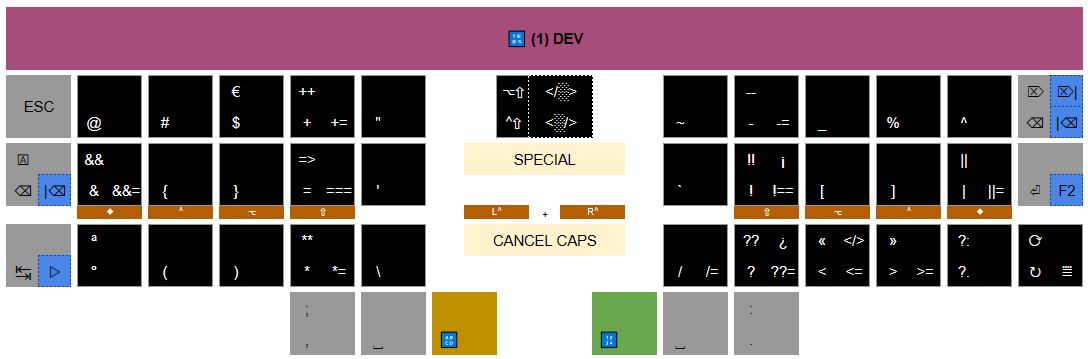
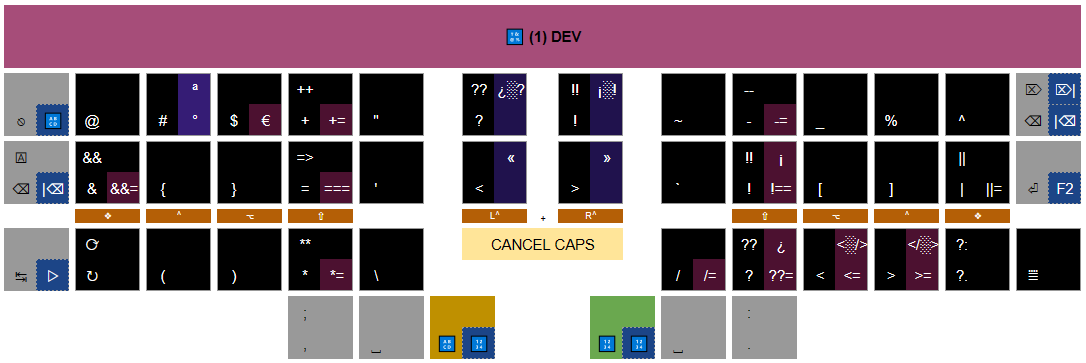
update readme and images

diff --git a/README.md b/README.md
@@ -58,8 +58,8 @@ Icons used to describe some modifiers and actions
 | Label           | Combinations                            | Actions                                               |
 | --------------: | --------------------------------------: | ----------------------------------------------------- |
 | <kbd>⌫</kbd>   |                                         | Backspace                                             |
-| <kbd>⌦</kbd>   | <kbd>⇧</kbd>+<kbd>⌫</kbd>              | Delete                                                |
 | <kbd>\|⌫</kbd> | <kbd>⇪⌫</kbd>                          | Delete word backward                                  |
+| <kbd>⌦</kbd>   | <kbd>⇧</kbd>+<kbd>⌫</kbd>              | Delete                                                |
 | <kbd>⌦\|</kbd> | <kbd>⇧</kbd>+<kbd>⇪⌫</kbd>             | Delete word forward                                   |
 | <kbd>F2</kbd>   | <kbd>⇪⏎</kbd>                           | Rename (like macOS)                                   |
 | <kbd>▷</kbd>   | <kbd>⇪↹</kbd>                            | left (terminal autocompletion)                        |
@@ -80,46 +80,25 @@ Letters, accents for Spanish language and quick shortcuts for most used symbols 
 | Label        | Combinations                                        |
 | :----------: | --------------------------------------------------: |
 | <kbd>á</kbd> | <kbd>⌥</kbd>+<kbd>a</kbd>                           |
-| <kbd>Á</kbd> | <kbd>⇧</kbd>+<kbd>⌥</kbd>+<kbd>a</kbd>              |
+| <kbd>Á</kbd> | <kbd>❖</kbd>+<kbd>⌥</kbd>+<kbd>a</kbd>              |
 | <kbd>é</kbd> | <kbd>⌥</kbd>+<kbd>e</kbd>                           |
-| <kbd>É</kbd> | <kbd>⇧</kbd>+<kbd>⌥</kbd>+<kbd>e</kbd>              |
+| <kbd>É</kbd> | <kbd>❖</kbd>+<kbd>⌥</kbd>+<kbd>e</kbd>              |
 | <kbd>í</kbd> | <kbd>⌥</kbd>+<kbd>i</kbd>                           |
-| <kbd>Í</kbd> | <kbd>⇧</kbd>+<kbd>⌥</kbd>+<kbd>i</kbd>              |
+| <kbd>Í</kbd> | <kbd>❖</kbd>+<kbd>⌥</kbd>+<kbd>i</kbd>              |
 | <kbd>ó</kbd> | <kbd>⌥</kbd>+<kbd>o</kbd>                           |
-| <kbd>Ó</kbd> | <kbd>⇧</kbd>+<kbd>⌥</kbd>+<kbd>o</kbd>              |
+| <kbd>Ó</kbd> | <kbd>❖</kbd>+<kbd>⌥</kbd>+<kbd>o</kbd>              |
 | <kbd>ú</kbd> | <kbd>⌥</kbd>+<kbd>u</kbd>                           |
-| <kbd>Ú</kbd> | <kbd>⇧</kbd>+<kbd>⌥</kbd>+<kbd>u</kbd>              |
-| <kbd>ü</kbd> | <kbd>⌥</kbd>+<kbd>⇪u</kbd>                          |
-| <kbd>Ü</kbd> | <kbd>⇧</kbd>+<kbd>⌥</kbd>+<kbd>⇪u</kbd>             |
+| <kbd>Ú</kbd> | <kbd>❖</kbd>+<kbd>⌥</kbd>+<kbd>u</kbd>              |
+| <kbd>ü</kbd> | <kbd>^</kbd>+<kbd>u</kbd>                          |
+| <kbd>Ü</kbd> | <kbd>❖</kbd>+<kbd>^</kbd>+<kbd>u</kbd>             |
 | <kbd>ñ</kbd> | <kbd>⌥</kbd>+<kbd>n</kbd>                           |
-| <kbd>Ñ</kbd> | <kbd>⇧</kbd>+<kbd>⌥</kbd>+<kbd>n</kbd>              |
+| <kbd>Ñ</kbd> | <kbd>❖</kbd>+<kbd>⌥</kbd>+<kbd>n</kbd>              |
 
 ##### Symbols
 
 | Label         | Combinations                                        |
 | :-----------: | --------------------------------------------------: |
 | <kbd>@</kbd>  | <kbd>⌥</kbd>+<kbd>q</kbd>                          |
-| <kbd>;</kbd>  | <kbd>⇧</kbd>+<kbd>,</kbd>                           |
-| <kbd>:</kbd>  | <kbd>⇧</kbd>+<kbd>.</kbd>                           |
-| <kbd>+</kbd>  | <kbd>⇧</kbd>+<kbd>-</kbd>                           |
-| <kbd>=</kbd>  | <kbd>⌥</kbd>+<kbd>-</kbd>                          |
-| <kbd>*</kbd>  | <kbd>⇧</kbd>+<kbd>⌥</kbd>+<kbd>-</kbd>             |
-| <kbd>&</kbd>  | <kbd>⇧</kbd>+<kbd>/</kbd>                           |
-| <kbd>?</kbd>  | <kbd>⌥</kbd>+<kbd>/</kbd>                          |
-| <kbd>\|</kbd> | <kbd>⇧</kbd>+<kbd>⌥</kbd>+<kbd>/</kbd>             |
-| <kbd>"</kbd>  | <kbd>⇧</kbd>+<kbd>'</kbd>                           |
-| <kbd>`</kbd>  | <kbd>⌥</kbd>+<kbd>'</kbd>                          |
-| <kbd>~</kbd>  | <kbd>⇧</kbd>+<kbd>⌥</kbd>+<kbd>'</kbd>             |
-
-##### Auto Brackets
-
-| Label | Combinations                                        | Action                       |
-| :---: | --------------------------------------------------: | ---------------------------- |
-| {░}   | <kbd>{}</kbd>                                       | Curly brackets               |
-| (░)   | <kbd>⇧</kbd>+<kbd>{}</kbd>                          | Round brackets (parenthesis) |
-| [░]   | <kbd>⌥</kbd>+<kbd>{}</kbd>                          | Square brackets              |
-| </░>  | <kbd>⇧</kbd>+<kbd>⌥</kbd>+<kbd>{}</kbd>             | Angular brackets for HTML  |
-| <░/>  | <kbd>⇧</kbd>+<kbd>^</kbd>+<kbd>{}</kbd>             | Angular brackets for React  |
 
 #### 1. Dev
 
@@ -129,17 +108,19 @@ Symbols and dev shortcuts for JS/TS.
 
 ##### Symbols
 
-| Label | Combinations                                      |
-| :-: | --------------------------------------------------: |
-| <kbd>€</kbd>  | <kbd>⌥</kbd>+<kbd>$</kbd>                 |
-| <kbd>°</kbd>  | <kbd>⌥</kbd>+<kbd>#</kbd>                 |
-| <kbd>ª</kbd>  | <kbd>⇧</kbd>+<kbd>⌥</kbd>+<kbd>#</kbd>    |
-| <kbd>«</kbd>  | <kbd>⇧</kbd>+<kbd><</kbd>                 |
-| <kbd>»</kbd>  | <kbd>⇧</kbd>+<kbd>></kbd>                 |
-| <kbd><=</kbd> | <kbd>⌥</kbd>+<kbd><</kbd>                |
-| <kbd>>=</kbd> | <kbd>⌥</kbd>+<kbd>></kbd>                |
-| <kbd>¡</kbd>  | <kbd>⇧</kbd>+<kbd>⌥</kbd>+<kbd>!</kbd>   |
-| <kbd>¿</kbd>  | <kbd>⇧</kbd>+<kbd>⌥</kbd>+<kbd>?</kbd>   |
+| Label           | Combinations                              |
+| :-------------: | ----------------------------------------: |
+| <kbd>°</kbd>    | <kbd>^</kbd>+<kbd>#</kbd>                 |
+| <kbd>ª</kbd>    | <kbd>❖</kbd>+<kbd>^</kbd>+<kbd>#</kbd>   |
+| <kbd>€</kbd>    | <kbd>⌥</kbd>+<kbd>$</kbd>                |
+| <kbd>«</kbd>    | <kbd>❖</kbd>+<kbd>^</kbd>+<kbd><</kbd>   |
+| <kbd>»</kbd>    | <kbd>❖</kbd>+<kbd>^</kbd>+<kbd>></kbd>   |
+| <kbd><=</kbd>   | <kbd>⌥</kbd>+<kbd><</kbd>                |
+| <kbd>>=</kbd>   | <kbd>⌥</kbd>+<kbd>></kbd>                |
+| <kbd>¡</kbd>    | <kbd>❖</kbd>+<kbd>⌥</kbd>+<kbd>!</kbd>   |
+| <kbd>¡░!</kbd>  | <kbd>❖</kbd>+<kbd>^</kbd>+<kbd>!</kbd>   |
+| <kbd>¿</kbd>    | <kbd>❖</kbd>+<kbd>⌥</kbd>+<kbd>?</kbd>   |
+| <kbd>¿░?</kbd>  | <kbd>❖</kbd>+<kbd>^</kbd>+<kbd>?</kbd>   |
 
 ##### JS/TS
 
@@ -167,16 +148,16 @@ Symbols and dev shortcuts for JS/TS.
 
 | Label | Combinations                                        | Action                       |
 | :---: | --------------------------------------------------: | ---------------------------- |
-| </░>  | <kbd>⇧</kbd>+<kbd>⌥</kbd>+<kbd>{}</kbd>             | Angular brackets for HTML  |
-| <░/>  | <kbd>⇧</kbd>+<kbd>^</kbd>+<kbd>{}</kbd>             | Angular brackets for React  |
+| <░/>  | <kbd>❖</kbd>+<kbd>⌥</kbd>+<kbd><</kbd>             | Angular brackets for React  |
+| </░>  | <kbd>❖</kbd>+<kbd>⌥</kbd>+<kbd>></kbd>              | Angular brackets for HTML  |
 
 ##### Browser DevTools
 
-| Label          | Combinations                                        | Action                      |
-| -----------: | --------------------------------------------------: | --------------------------- |
-| <kbd>↻</kbd> | <kbd>↻</kbd>                                        | Refresh                     |
-| <kbd>⟳</kbd> | <kbd>⇧</kbd>+<kbd>↻</kbd>                           | Hard refresh (clean cache) |
-| <kbd>⩸</kbd> | <kbd>⌥</kbd>+<kbd>↻</kbd>                           | Open DevTools              |
+| Label        | Combinations                 | Action                      |
+| -----------: | ---------------------------: | --------------------------- |
+| <kbd>↻</kbd> | <kbd>↻</kbd>                 | Refresh                     |
+| <kbd>⟳</kbd> | <kbd>⇧</kbd>+<kbd>↻</kbd>   | Hard refresh (clean cache) |
+| <kbd>⩸</kbd> |                             | Open DevTools              |
 
 #### 2. Actions/Numbers
 
@@ -187,19 +168,21 @@ Quick navigation actions and numbers.
 ##### Navigation
 
 | Label          | Combination                | Action               |
-| ------------: | -------------------------- | -------------------- |
-| <kbd>△</kbd>  |                            | Up                   |
-| <kbd>▽</kbd>  |                            | Down                 |
-| <kbd>◁</kbd>  |                            | Left                 |
-| <kbd>▷</kbd>  |                            | Right                |
-| <kbd>⤒</kbd>  | <kbd>⌥</kbd>+<kbd>△</kbd> | Beginning of document |
-| <kbd>⤓</kbd>  | <kbd>⌥</kbd>+<kbd>▽</kbd> | End of document       |
-| <kbd>⇤</kbd>  | <kbd>⌥</kbd>+<kbd>◁</kbd> | Beginning of line     |
-| <kbd>⇥</kbd>  | <kbd>⌥</kbd>+<kbd>▷</kbd> | End of line           |
-| <kbd>⇺</kbd>  |                            | Prev Tab              |
-| <kbd>⇻</kbd>  |                            | Next Tab              |
-| <kbd>⎗</kbd>  | <kbd>⇧</kbd>+<kbd>⇺</kbd> | Prev desktop          |
-| <kbd>⎘</kbd>  | <kbd>⇧</kbd>+<kbd>⇻</kbd> | Next desktop          |
+| ------------: | --------------------------------------- | -------------------- |
+| <kbd>△</kbd>  |                                        | Up                   |
+| <kbd>▽</kbd>  |                                        | Down                 |
+| <kbd>◁</kbd>  |                                        | Left                 |
+| <kbd>▷</kbd>  |                                        | Right                |
+| <kbd>⤒</kbd>  | <kbd>❖</kbd>+<kbd>⇧</kbd>+<kbd>△</kbd> | Beginning of document |
+| <kbd>⤓</kbd>  | <kbd>❖</kbd>+<kbd>⇧</kbd>+<kbd>▽</kbd> | End of document       |
+| <kbd>⇤</kbd>  | <kbd>❖</kbd>+<kbd>⇧</kbd>+<kbd>◁</kbd> | Beginning of line     |
+| <kbd>⇥</kbd>  | <kbd>❖</kbd>+<kbd>⇧</kbd>+<kbd>▷</kbd> | End of line           |
+| <kbd>⇞</kbd>  | <kbd>❖</kbd>+<kbd>^</kbd>+<kbd>△</kbd> | Page up               |
+| <kbd>⇟</kbd>  | <kbd>❖</kbd>+<kbd>^</kbd>+<kbd>▽</kbd> | Page down             |
+| <kbd>⇺</kbd>  |                                         | Prev Tab              |
+| <kbd>⇻</kbd>  |                                         | Next Tab              |
+| <kbd>⎗</kbd>  | <kbd>⇧</kbd>+<kbd>⇺</kbd>              | Prev desktop          |
+| <kbd>⎘</kbd>  | <kbd>⇧</kbd>+<kbd>⇻</kbd>              | Next desktop          |
 
 ##### Actions
 
@@ -226,15 +209,18 @@ Dedicated to Bluetooth and media controls.
 
 | Label           | Action                   |
 | --------------: |  ----------------------- |
-| <kbd>BT⏮</kbd> | Prev device              |
-| <kbd>BT⏭</kbd> | Next device              |
-| <kbd>BT#⃣</kbd> | Jump to #⃣ device        |
-| <kbd>BT❌</kbd> | Clear current device     |
+| <kbd>B⏮</kbd> | Prev device              |
+| <kbd>B⏭</kbd> | Next device              |
+| <kbd>B#⃣</kbd> | Jump to #⃣ device        |
+| <kbd>B❌</kbd> | Clear current device      |
 | <kbd>🔎+</kbd>  | Zoom in                  |
 | <kbd>🔎R</kbd>  | Zoom reset               |
 | <kbd>🔎-</kbd>  | Zoom out                 |
-| <kbd>🔅</kbd>   | Bright down              |
-| <kbd>🔆</kbd>   | Bright up                |
+| <kbd>🔊+</kbd>  | Volume up                |
+| <kbd>🔈M</kbd>   | Mute                     |
+| <kbd>🔉-</kbd>   | Volume down              |
+| <kbd>🔅</kbd>    | Bright down              |
+| <kbd>🔆</kbd>    | Bright up                |
 
 ##### Media
 
@@ -318,9 +304,23 @@ Once you make changes to your keymap, you can download the firmware from the git
 
 ## AHK
 
-Create shortcuts to all scripts with `.ahk` extension inside `combos` folder.
+### Prerequisites
+
+- Download and install [AutoHotKey](https://www.autohotkey.com/)
+
+### Scripts
+
+Create shortcuts to all scripts with `.ahk` extension located inside `combos` folder.
 
 Press <kbd>❖</kbd>+<kbd>r</kbd> and run this command `shell:startup`. Move shortcuts to this folder to run the scripts at startup.
+
+### Notifications
+
+Near to current mouse positions will show notifications about:
+
+- CapsLock (On/Off)
+- Changing to a layer
+- Momentary layer activation
 
 ⇧ [Back to menu](#menu)
 
@@ -338,6 +338,7 @@ Press <kbd>❖</kbd>+<kbd>r</kbd> and run this command `shell:startup`. Move sho
 - [ZMK Docs](https://zmk.dev/docs) - Modern, open source keyboard firmware
 - [Keymap Editor](https://nickcoutsos.github.io/keymap-editor) - GUI ZMK Keymap Editor
 - [Colemak Mods](https://colemakmods.github.io/mod-dh/keyboards.html#matrix-keyboards) - Colemak-DH for a non-traditional, ergonomic keyboard
+- [AutoHotKey](https://www.autohotkey.com/) - The ultimate automation scripting language for Windows
 
 ### Versioning
 

diff --git a/CHANGELO.md b/CHANGELO.md
@@ -1,0 +1,8 @@
+# 1.0.0
+
+- Designed with Colemak DHm layout to be used on Windows
+- Use AHK for unicode sequences because buggy results with ZMK
+- ZMK does not support assign same keys as combos while been used for home rows
+- Added AHK layer change notifications
+- Added accents, JS/TS shortcuts with ZMK and AHK
+- AHK shortcuts use win+alt or win+ctrl to avoid previous shortcuts collisions
